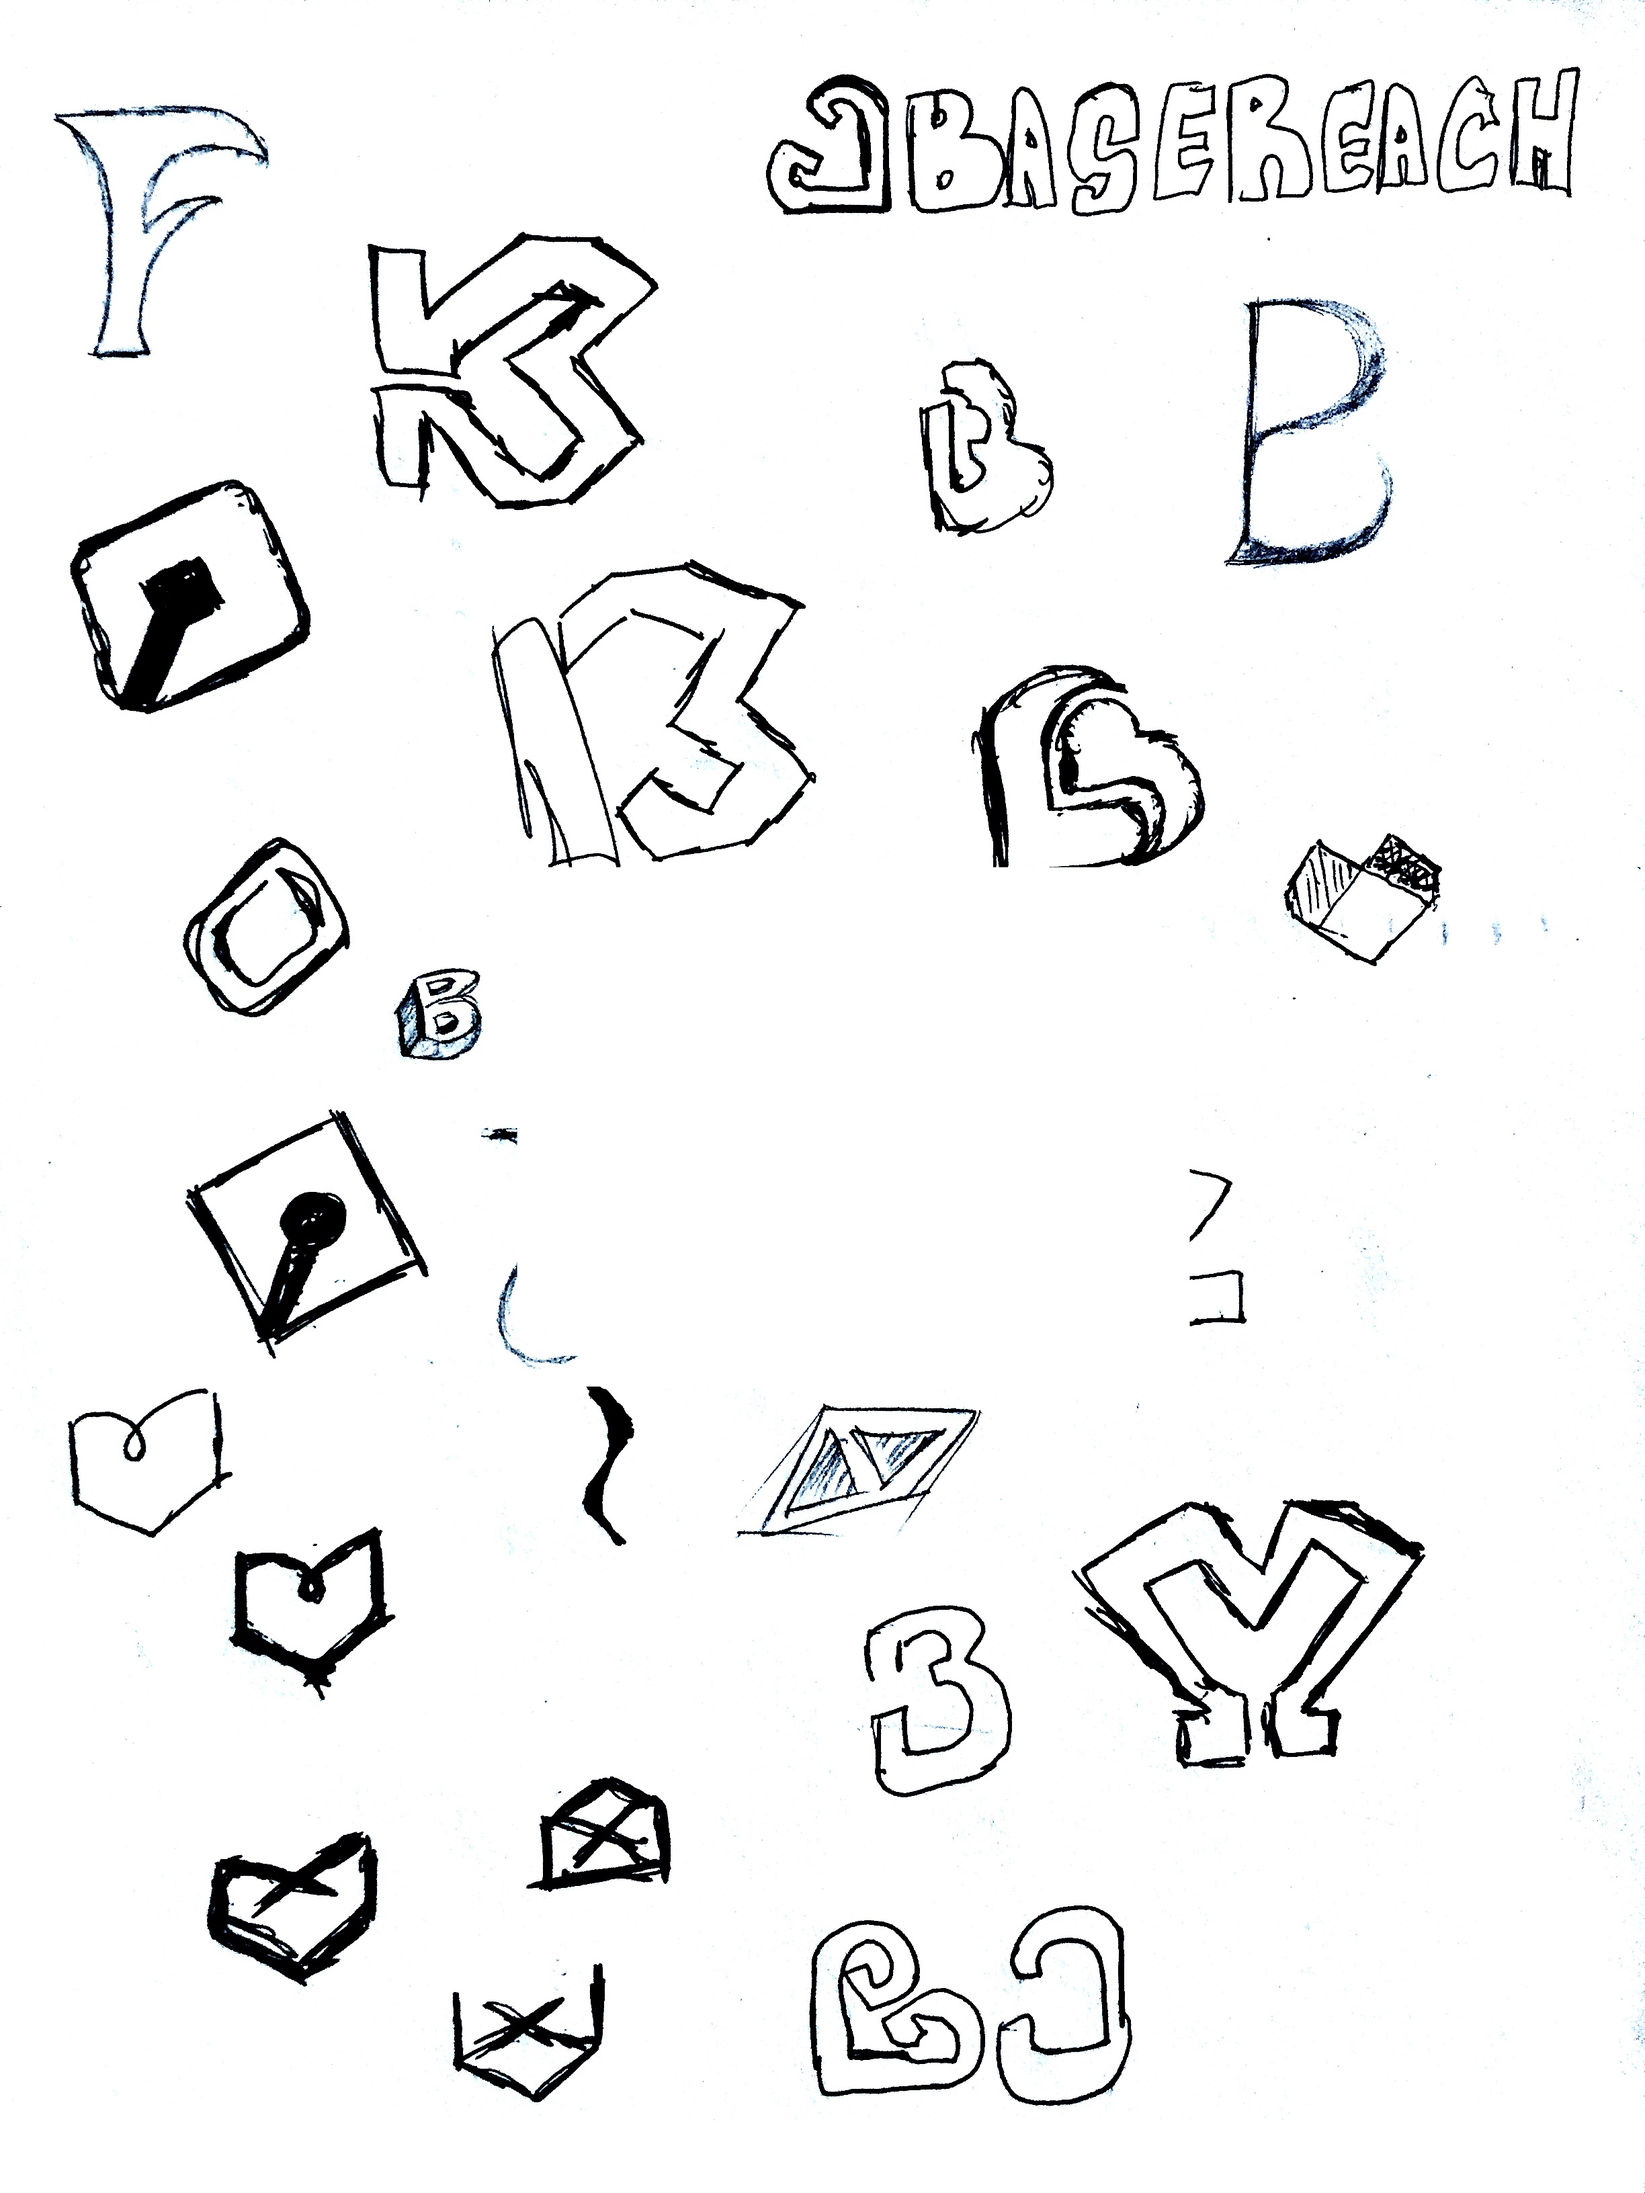
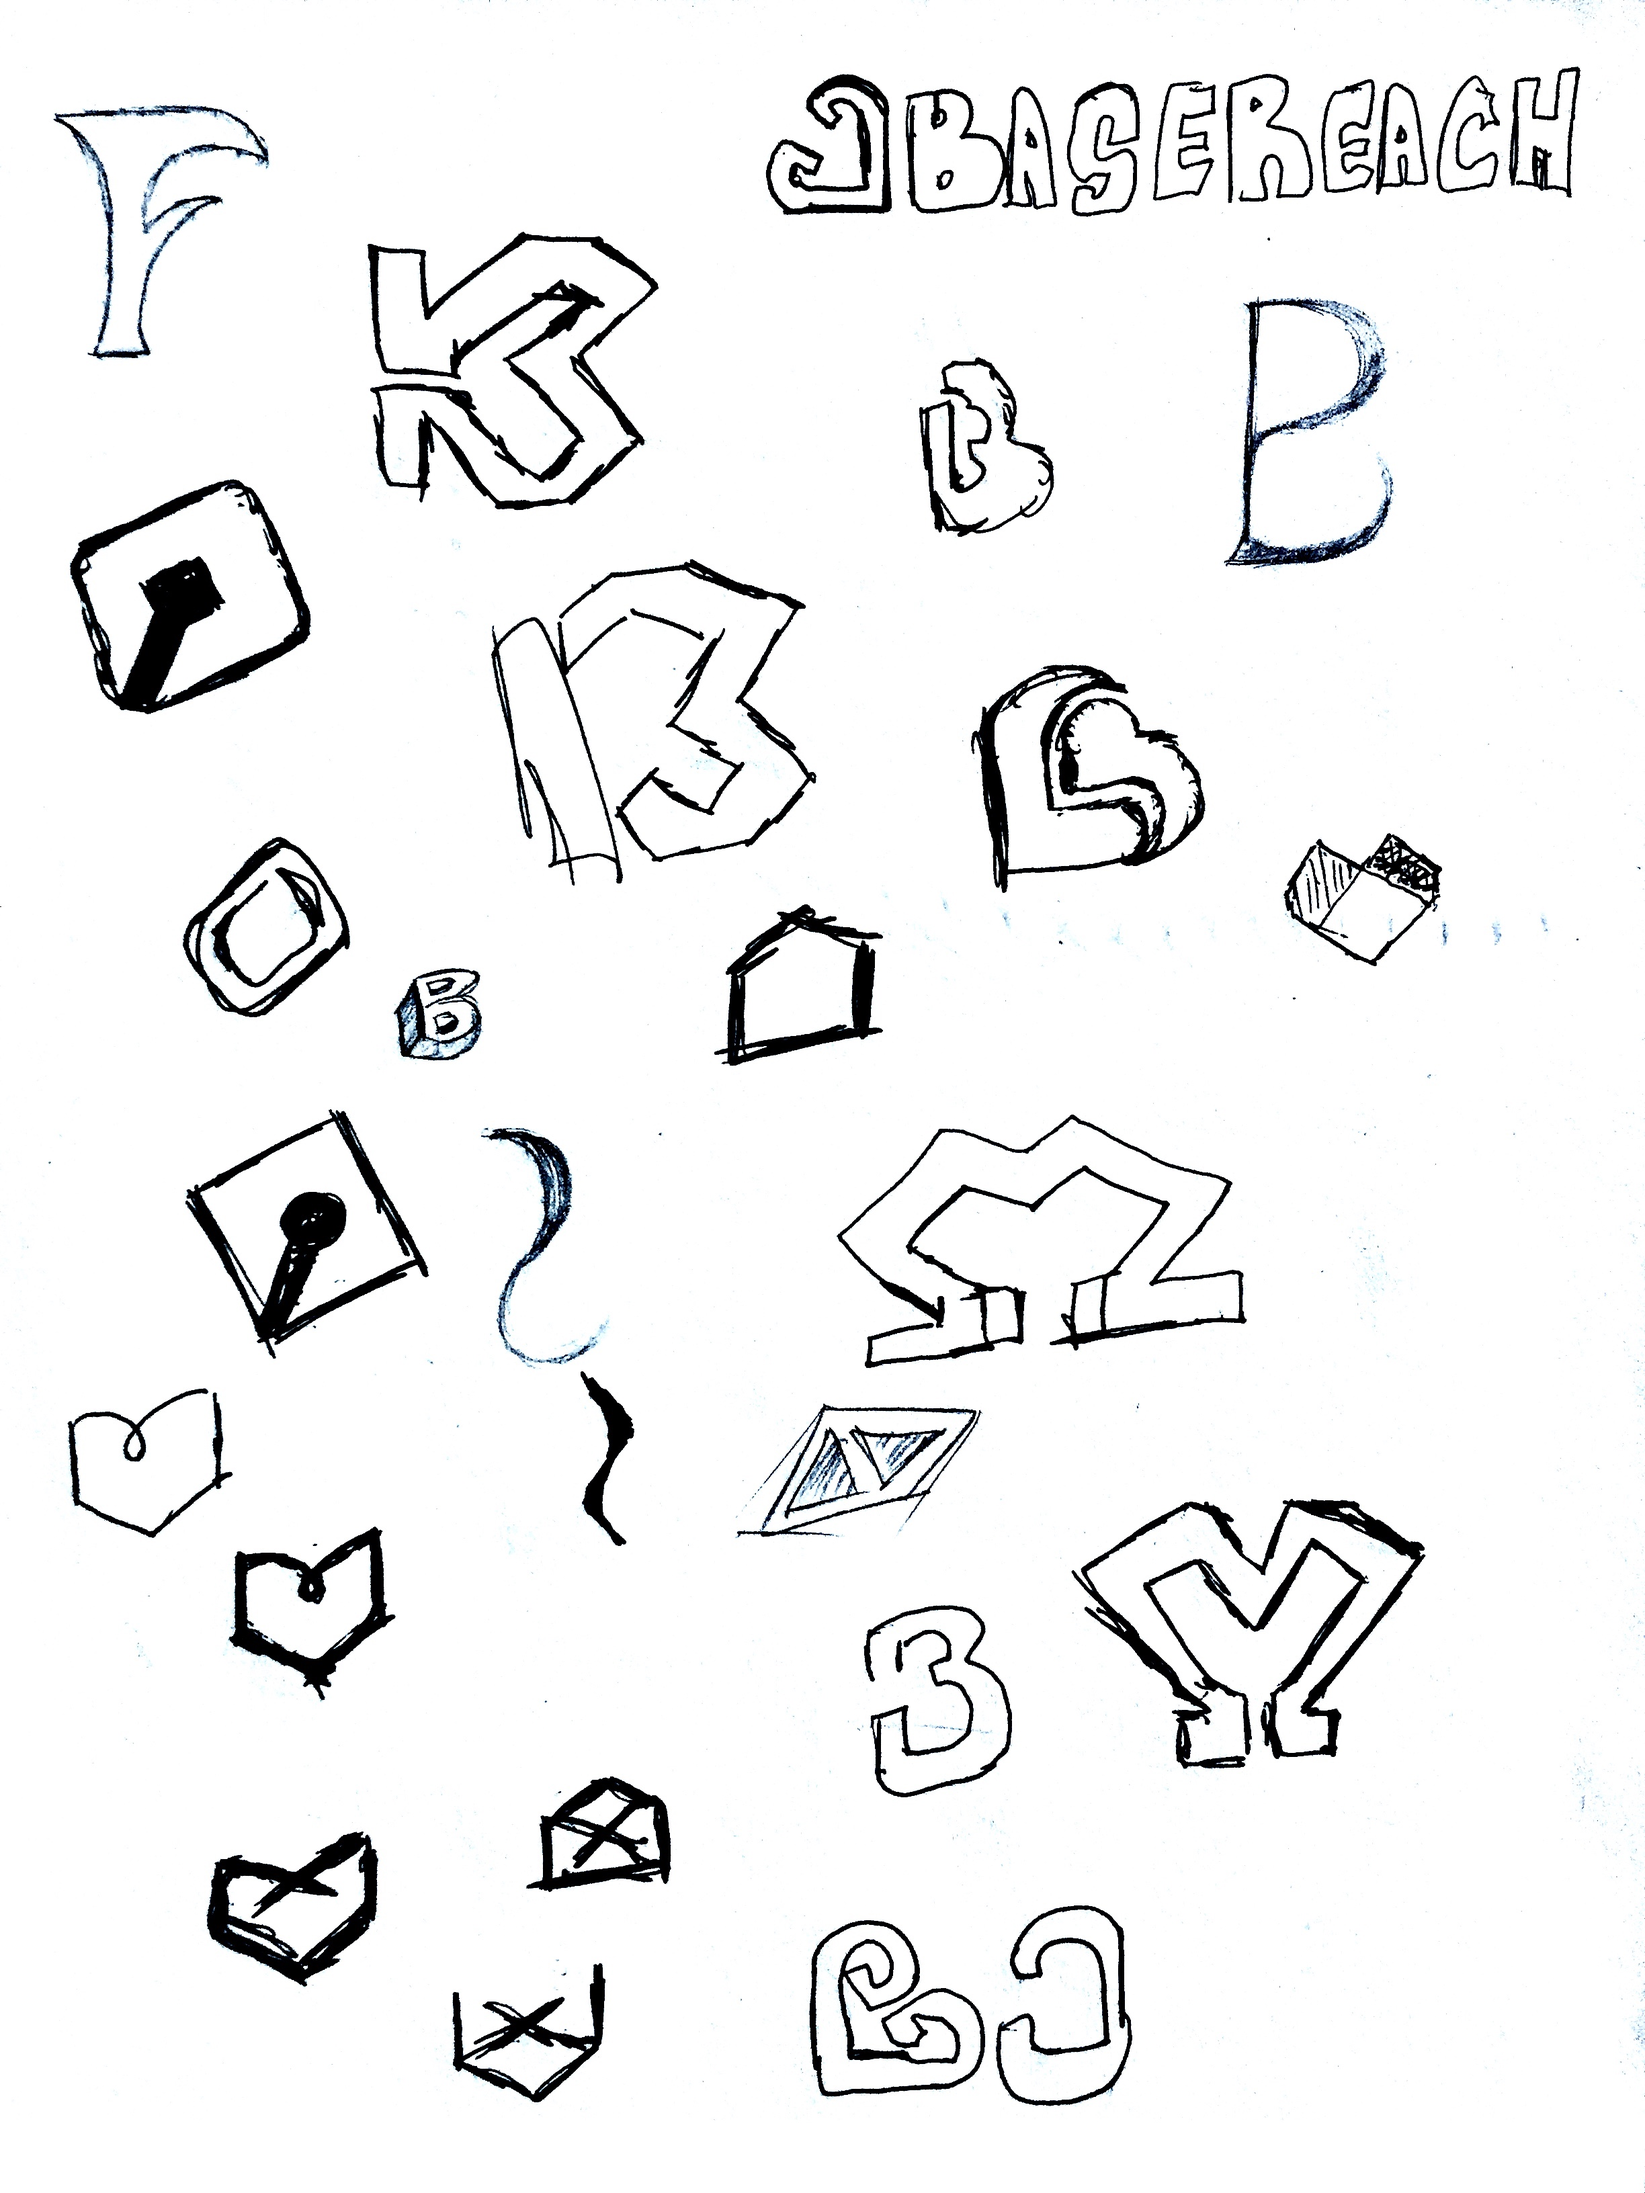
added quick placeholders

diff --git a/basereach.html b/basereach.html
@@ -35,8 +35,13 @@
                 <img class="case-img" src="images/basereach-logo.png">
               </section>
               <section class="case-text">
-                <p>This past fall I designed the brand identity of Basereach, a company that prints handwritten card
-                  in custom, perfectly imitated handwriting. </p>
+                <p>This past fall I designed the brand identity of <a href="http://basereach.co">Basereach</a>, a company that prints handwritten card
+                  in custom, perfectly imitated handwriting. I spoke with the founder <a href="http://www.danbogachek.com">Dan</a> about what Basereach does at it's core,
+                  which is helping businesses to express gratitude and make personal and meaningful connections with their customers.
+                </p>
+                <p>This project had a deadline of two days, so I started sketching right away ideas of a representation of an enterprise solution
+                  for a personalized touch and friendly engagement.
+                </p>
                 <section class="pic-grid-section">
                   <a href="http://www.nathalyn.com" class="pic-grid">
                         <li class="pic-list">
@@ -56,12 +61,8 @@
                           </li>
                         </a>
               <section class="case-text">
-
-                <p>The <span class="bold">About</span> page was something that I decided to make drastic changes to by shortening the funding story into something easy to process and clear.
-                  In most cases,  people want to see the product straightaway, so an option on the about page leads to a catalog.
-                  Two key pages I included were the <span class="bold">Ingredients</span> page and the <span class="bold">Plans</span> page.
-                  The <span class="bold">Plans</span> page would fix the problem of people not knowing what plan to buy.
-                  The <span class="bold">Ingredients</span> page is more of a resource that is accessible by the navigation bar, as some people may not be too interested in the fine details of whats inside.
+                <h2 class="case-subtitle">Initial Mockups</h2>
+                <p>I mocked a couple of possibilities for the logo with different takes on each. 
                   </p>
                 <section>
                       <img class="case-img pic-too-big" src="images/axis-sketch.jpg">

diff --git a/remodelmate.html b/remodelmate.html
@@ -1,0 +1,41 @@
+<!DOCTYPE html>
+<html>
+  <head>
+    <meta charset="UTF-8">
+    <meta http-equiv="cleartype" content="on" />
+    <title>Nathalyn Nunoo</title>
+  <link rel="shortcut icon" href="favicon.ico" type="image/vnd.microsoft.icon">
+  <link rel="stylesheet" href="styles.css">
+  <link href="https://fonts.googleapis.com/css?family=Lato:300,300i,400,400i,700,700i" rel="stylesheet">
+  <script src="https://use.fontawesome.com/ee4da33c2c.js"></script>
+  <script src="scripts.js"></script>
+  <script src="https://ajax.googleapis.com/ajax/libs/jquery/3.2.1/jquery.min.js"></script>
+    </head>
+    <body>
+      <button href="javascript:void(0);" id="myBtn" title="Go to top">TOP</button>
+      <div class="content">
+        <section class="nav clearfix">
+            <div class="nav-right">
+              <ul class="menu">
+                    <li class="menu-item">
+                      <a href="index.html">WORK</a>
+                    </li>
+                    <li class="menu-item">
+                      <a href="#">ABOUT</a>
+                    </li>
+                </ul>
+            </div>
+          </section>
+        <article class="case-study">
+          <section class="case-header">
+            <h1 class="case-title">Coming Soon</h1>
+</article>
+        </section>
+        </div>
+
+
+
+
+
+    </body>
+    </html>

diff --git a/index.html b/index.html
@@ -58,7 +58,7 @@
 
 
 
-          <a href="http://www.nathalyn.com" class="post-item">
+          <a href="remodelmate.html" class="post-item">
                 <li class="project-small">
                   <div class="project-pic">
                     <img src="images/rmate-logo-holder.png"></div>
@@ -71,7 +71,7 @@
                   </li>
                 </a>
 
-          <a href="basereach.html" class="post-item">
+          <a href="remodelmate.html" class="post-item">
                 <li class="project-small">
                   <div class="project-pic">
                     <img src="images/basereach-logo.png"></div>
